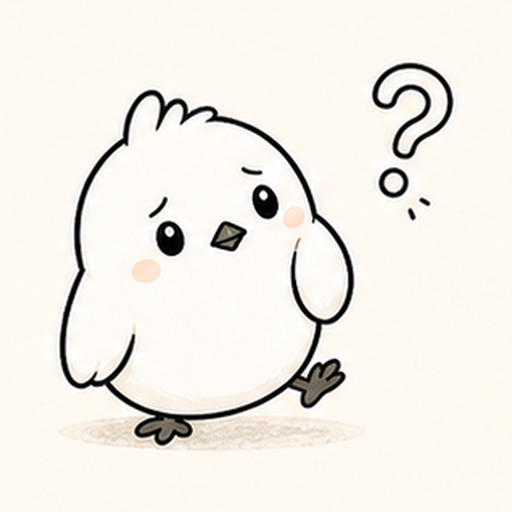
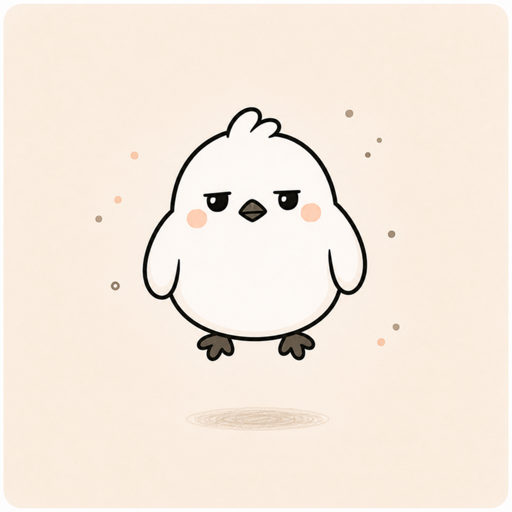
Make sus4 float with composed expression

diff --git a/app/index.html b/app/index.html
@@ -4,7 +4,7 @@
     <meta charset="utf-8">
     <meta name="viewport" content="width=device-width, initial-scale=1">
     <title>Codori MVP</title>
-    <link rel="stylesheet" href="./styles.css?v=20260530-m7-sunglasses-v3">
+    <link rel="stylesheet" href="./styles.css?v=20260530-sus4-floating-v1">
   </head>
   <body>
     <main class="app-shell">
@@ -221,6 +221,6 @@
       </section>
     </main>
 
-    <script src="./main.js?v=20260530-m7-sunglasses-v3"></script>
+    <script src="./main.js?v=20260530-sus4-floating-v1"></script>
   </body>
 </html>

diff --git a/app/main.js b/app/main.js
@@ -111,7 +111,7 @@ const ONE_POINT_ACCENTS = {
   },
   sus4: {
     slug: "sus4",
-    title: "未解決の浮いた点",
+    title: "すました浮遊点",
     asset: "assets/app/accents/imagegen-v1/sus4.png"
   },
   "m7-5": {
